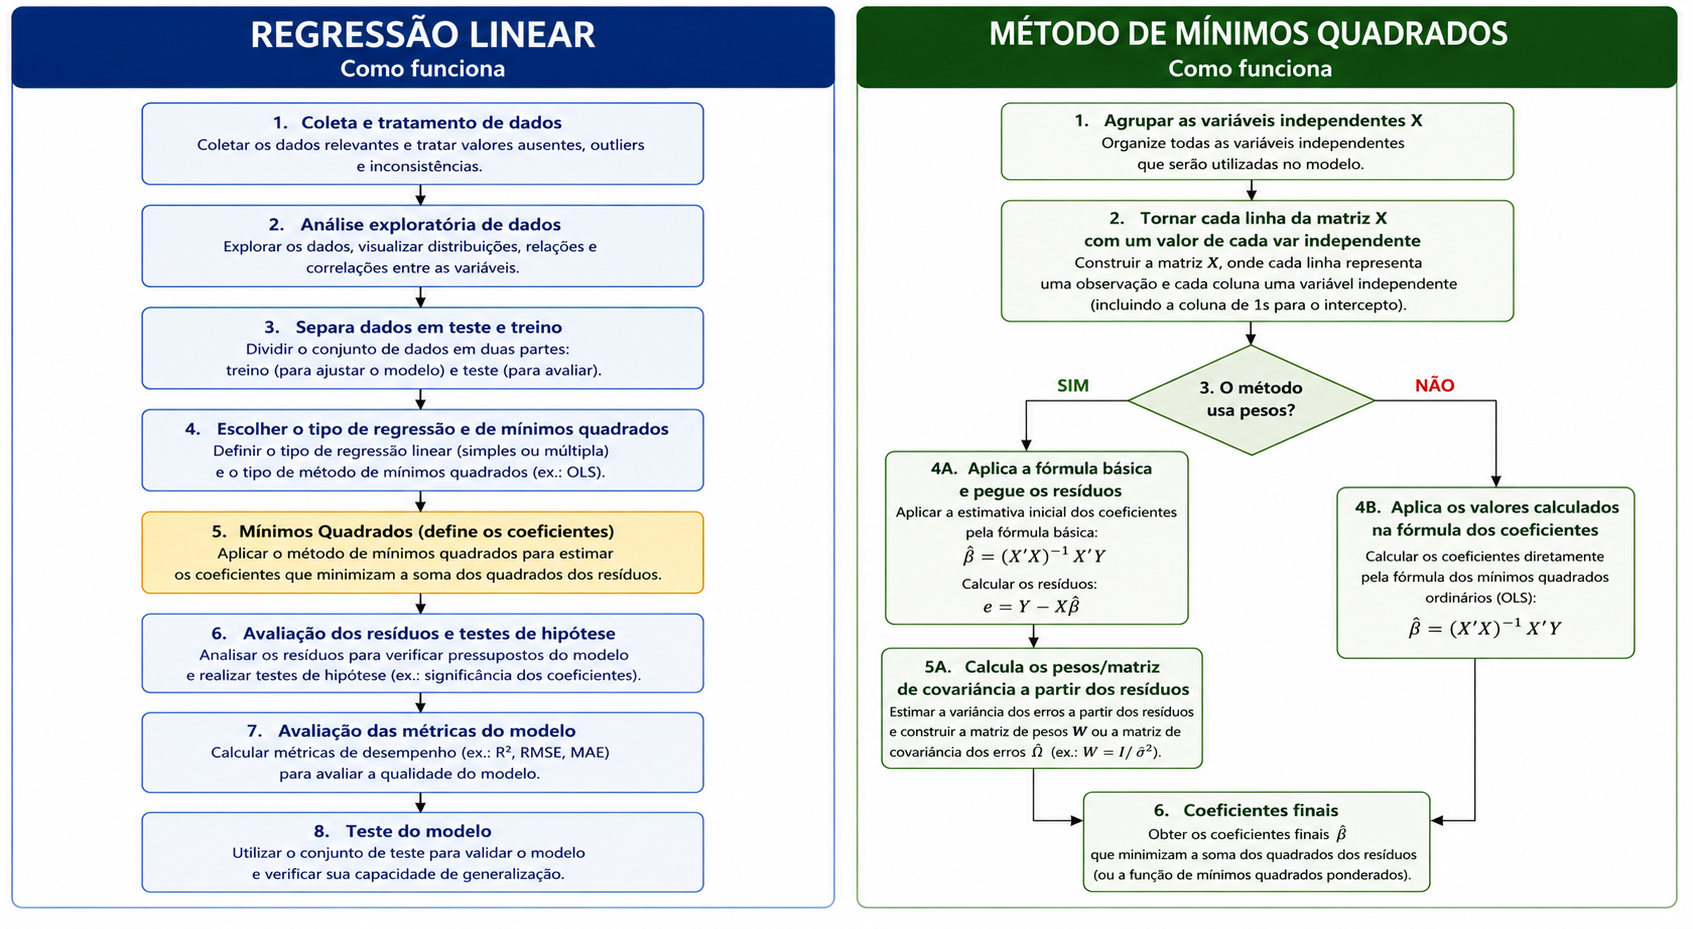
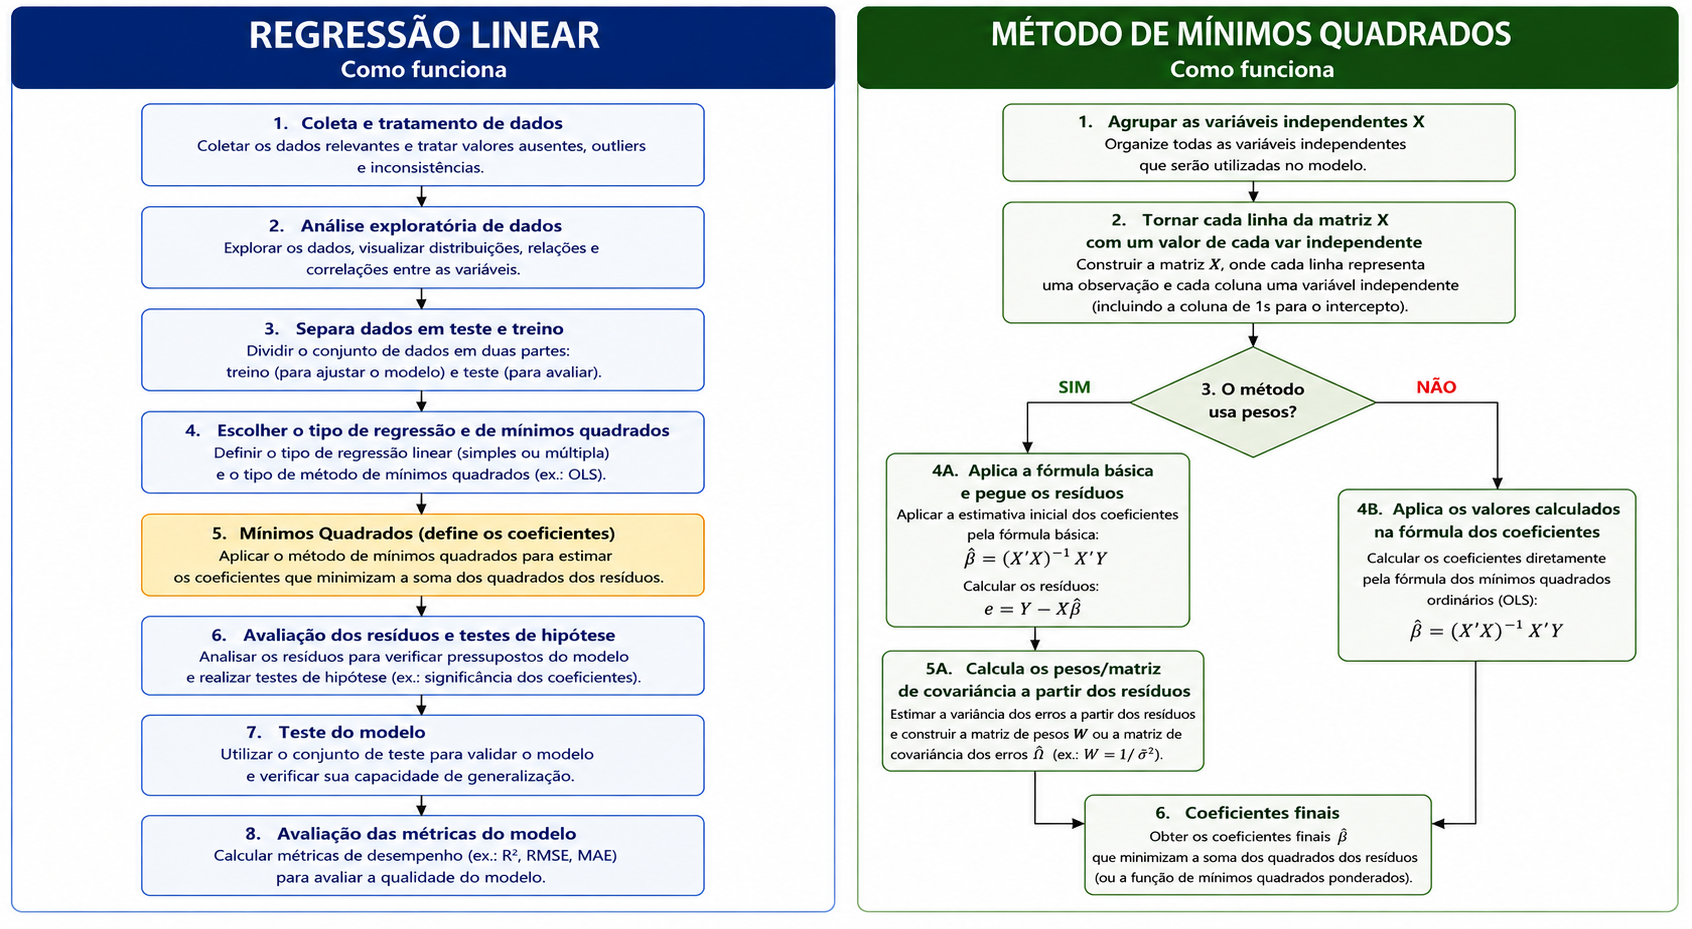
regressao linear

Changed region(s): [[0.0, 0.0, 1.0, 0.9989], [0.7991, 0.4058, 0.8913, 0.437]]

diff --git a/02-machine-learning/supervisionado/regressao/README.md b/02-machine-learning/supervisionado/regressao/README.md
@@ -1,0 +1,110 @@
+# REGRESSÃO
+
+O aprendizado supervisionado pode ser dividido em dois grupos: regressão e classificação. A regressão busca prever valores numéricos e contínuos enquanto a classificação busca definir a qual categoria um dado pertence (é gato ou cachorro, sim ou não, aprovado ou reprovado...). 
+
+A regressão serve perfeitamente para contextos matemáticos ou quando estamos modelar matematicamente algo. Se quisermos transformar algo em uma equação, é ele que usamos. Por isso ele só se enciaxa se puder transformar os dados e as respostas em algo numérico. 
+
+## Resposta contínua
+
+Como a resposta pode ser qualquer valor dos números reais, a regressão forma uma equação contínua. Se a resposta só pudesse ser valores inteiros (1, 2, 3) seria uma classificação, onde cada número representa uma categoria.
+
+## Tipos
+
+- Regressão linear: cria uma equação de primeiro grau (uma linha ou plano) que representa seus dados
+- Regressão polinomial: cria uma equação de qualquer grau que representa seus dados
+
+A grande verdade é que regressão polinomial não é muito usada, pois é muito complexa de modelar e aumenta e muito os cálculos necessários. O mais comum é usar transformação nos dados para linearizá-los e depois aplicar a regressão linear. Outros métodos como redes neurais também são mais recomendáveis para modelar nesses casos.
+
+Não existe regressões que tentam modelar outras relações (como raiz quadrada, seno...), para esses casos também é preferível outros métodos como redes neurais.
+
+### Transformação dos dados
+
+Uma transformação muda a escala dos dados, tornando dados exponenciais mais lineares (log) ou eliminar a dispersão, deixando-os mais unidos (z-score). Em todos eles a escala de medida muda, portanto se você aplica transformação nas vars de saída (Y) no treino, ao prever e nos testes precisa aplicar a operação inversa para trazes a resposta de volta a escala original e ser compreensível e comparável com os dados de teste.
+
+Você pode ver mais sobre transformação nos meus estudos sobre estatística no capítulo 10, [clicando aqui](https://github.com/rodrigorincon/statistics/tree/main/10-correlacao-e-transformacao).
+
+## Fórmulas
+
+1. **Regressão Linear Simples**
+
+$y = a*x + b$
+
+- Cria uma equação linear com apenas 1 var independente
+- Só tem 1 único X
+
+2. **Regressão Linear Múltipla**
+
+$y = a_1*x_1 + a_2*x_2 ... + a_n*x_n + b$
+
+- Cria uma equação linear com 2 ou mais vars independentes
+- Simples com vários X
+
+Porém usar essa fórmula nos dia-a-dia pode ser muito trabalhoso. O que de fato é feito para simplificar é reescrever essa mesma equação em formato de matriz, o que facilita tanto para o programador entender quanto agiliza o cálculo pela máquina. Mas a equação é a mesma e nenhuma relação é perdida. Só a forma de escrever que muda.
+ 
+3. **Regressão Polinomial**
+
+$y = a_1*x + a_2*x^2 + a_3*x^3 ... + a_n*x^n + b$
+
+- Cria uma equação exponencial
+- Tenta descobrir o coeficiente de cada expoente e quantos expoentes tem (se acaba no elevado a 3 ou no elevado a 10)
+- Não envolve raiz quadrada, elevado a números fracionados ou negativoss
+- Pode ter diversas variáveis independentes (X)
+- É preciso ter uma amostra com no mínimo N dados (o máximo de expoentes que consegue definir é o tamanho da amostra)
+- Fácil de causar overfitting quando tem alto grau (elevado a 3 ou mais)
+- Árvores e decisão e Redes Neurais são mais eficientes que a regressão polinomial. Se a relação é muito complexa que precisa de vários polinômios, essas soluções de IA são mais precisas
+
+> Conforme falado, a regressão polinomial não é recomendável, sendo prevferível usar redes neurais ou outros métodos para modelar esses casos mais complexos.
+
+## DIFERENÇA ENTRE CORRELAÇÃO E REGRESSÃO
+
+- Correlação analisa os dados passados
+- Regressão tenta prever o futuro (criando uma equação que melhor represente os dados)
+- Correlação é a base para regressão
+- Regressão é uma versão mais avançada e poderosa da correlação
+
+## O QUE REGRESSÃO MEDE A MAIS
+
+Além de **tudo que a correlação mede** (se são relacionadas, direção e força), a regressão também mede: 
+
+- Quanto uma var muda se aumentarmos/diminuirmos outra
+- Prever/estimar o valor final da variável para cada valor da outra
+- Quais vars formam o melhor modelo (quais descrevem melhor o comportamento de Y)
+
+### PONTOS DE ATENÇÃO
+
+- A regressão não indica relação causa x efeito (correlação não é causalidade)
+- A regressão não ajuda a encontrar variáveis ocultas 
+ - As vezes há outras vars influenciando além das usadas ou mesmo uma que define o comportamento das suas
+
+## NOMENCLATURA
+
+- Var Independente (ou explicativa)
+  - São o que causa mudança na var estudada
+  - Podem ser várias
+  - É o nosso X da equação
+- Var Dependente (ou resposta)
+  - É influenciada pelas demais variáveis
+  - Só temos 1
+  - É o nosso Y da equação
+
+## PREMISSAS
+
+Além dos dados de entrada e saída terem de ser números reais, para dizer que a regressão é confiável 4 condições tem de ser seguidas pelos resíduos:
+
+- Erros serem normais
+- Variância dos erros constante (homocedasticidade)
+- Erros independentes (para séries temporais)
+- Vars independentes não devem ser correlacionadas (sem multicolinariedade, para regressão múltipla)
+
+Como testes de hipótese, análise de dados e explicação de resíduos não fazem parte do escopo daqui (aqui foco nos algoritmos e fluxos de trabalho), a descrição completa de todos eles e como aplicá-los também será dado nos meus estudos sobre estatística no capítulo 11, [clicando aqui](https://github.com/rodrigorincon/statistics/blob/main/11-regressao-linear/02-como-fazer.md).
+
+### CHECKLIST DE TODOS OS TESTES A PASSAR
+
+Juntando os testes das premissas com o da própria regressão, esta é a lista de testes a serem executadas para regressões simples ou múltiplas.
+
+- Anova
+  - Teste T como post hoc
+- Jarque-Bera
+- Breusch-Pagan
+- Durbin-Watson (para séries temporais)
+- Matriz de correlação ou VIF (não são testes de hipóteses, mas tem de testar)

diff --git a/02-machine-learning/supervisionado/regressao/regressao-linear/README.md b/02-machine-learning/supervisionado/regressao/regressao-linear/README.md
@@ -1,0 +1,53 @@
+# REGRESSÃO LINEAR
+
+Regressão é o método de IA aonde encontramos a melhor equação linear que descreva nossos dados. Com isso ela traça uma reta (para 1 única variável) ou plano (para 2 ou mais variáveis) que passa por entre os dados. Essa equação definida será aquela com o menor erro médio (ou seja, a que mais se aproxima dos dados reais).
+
+Como os dados não vão tá todos perfeitamente enfileirados na vida real, a linha nunca conseguirá passar em cima de todos os dados. O objetivo não é passar em cima do máximo de dados (isso seria overfitting), mas sim que a soma dos erros seja a menor possível.
+
+## Estrutura
+
+A estrutura de todo modelo de machine learning é composto por **preparar (e transformar) os dados**, separar dados de **treino e teste**, **escolher os parâmetros** do modelo, escolher uma **função de otimização** e uma **função de perda**. Adicionalmente pode ser usar regularização caso prefira.
+
+A regressão linear é indissociável do método dos mínimos quadrados, porém é importante deixar claro o que exatamente é cada um. A regressão é o modelo completo, com todas as etapas listadas acima. Os mínimos quadrados é o modelo de otimização usado na regressão, podendo inclusive até ser trocado por outro (como gradiente descendente).
+
+- **Regressão Linear**: É a equação ou o objetivo final. Ela descreve como uma variável Y muda se outra variável X for alterada.
+- **Mínimos Quadrados**: É a forma de encontrar a reta da regressão. Ele define os coeficientes que formam a reta e compõem a equação da regressão.
+
+Como os `mínimos quadrados é a função de otimização` da regressão, ele é a parte principal do modelo, sendo seu coração.
+
+![](../../../images/fluxograma-regressao.png)
+
+## Função de Otimização (Mínimos Quadrados)
+
+É o método usado pela regressão para encontrar os coeficientes/parâmetros do modelo. Tem uma série de variações para diferentes casos. Como eles já foram explicados anteriormente não me estenderei aqui. Uma outra opção aos mínimos quadrados é o gradiente descendente.
+
+> O mínimos quadrados é responsável por toda a parte complicada do modelo.
+
+## Função de Perda
+
+A função de perda é usada internamente pela função de otimização. Ela diz o quanto a otimização tá longe de seu objetivo. A função de perda dos mínimos quadrados é o **Erro Quadrático Médio (MSE)**, também chamado de **média da soma do quadrado dos erros**.
+
+Como ele já está incluso na equação dos mínimos quadrados ele acaba não sendo tão visível por tá tudo embutido em uma única equação. Quando se faz a prova da fórmula dos mínimos quadrados você encontra a função de custo no processo e sua derivada está lá presente formando a equação. A derivada do erro quadrático é facilmente encontrada na prova via derivada. Consulte a pasta de mínimos quadrados na sessão "algoritmos-base".
+
+O erro quadrático médio é: $\frac{\sum (y_i - ŷ)^2}{N}$
+
+E sua derivada é: $\frac{2 \sum (y_i - ŷ)}{N}$
+
+Nós vemos ess somatória na fórmula final dos mínimos, porém o 2 e o N se cancelam com outros fatores que compõem o resto da equação.
+
+A função de perda do gradiente descendente é a máxima log-verossimilhança.
+
+## Métricas de Qualidade
+
+Além dos métodos tradicionais de medir o sucesso de um modelo de IA (AIC/BIC, R² e R² ajustado), para a regressão linear temos alguns a mais.
+
+- **MAE, RMSE, MAPE e MSE**: São métricas que medem o tamanho dos erros das nossas previsões. Calcule eles a partir dos **dados de TESTE**. Nunca use essas métricas nos dados de treino, pois não faz sentido.
+- **Desvio padrão dos erros**: Mede o quão longe nossos erros costumam estar da realidade. Como os erros seguem uma curva normal, sabemos que 66% dos erros estatão a 1 desvio padrão dos erros de distância.
+
+## Detectando multicolineariedade
+
+Além dos testes de hipótese, uma outra forma de encontrar autocorrelação e multicolineariedade nos dados é usando 2 técnicas: **Matriz de correlação** e o **VIF**.
+
+Eles não são métricas de qualidade, mas sim técnicas para serem usadas na avaliação do treino (ou seja, verificamos antes de fazer os testes). Eles não são usados nos dados de teste nem em seus retornos.
+
+Ele testa se as variáveis usadas no treino são correlacionadas e assim podemos decidir se removemos alguma delas ou usamos regularização para diminuir essa influência cruzada.

diff --git a/02-machine-learning/README.md b/02-machine-learning/README.md
@@ -24,7 +24,7 @@ Muito dos modelos de machine learning usam redes neurais, mas ela não é tudo. 
 - Validação/teste: avaliar desempenho em dados não vistos.
 - Deploy: integrar o modelo em aplicações e monitorar seu desempenho.
 
-Arquitetonicamente, modelos aprendem transformações que mapeiam entradas para saídas. A aprendizagem é feita por uma **função de perda** (ou função de custo), **otimização e regularização**.
+Arquitetonicamente, modelos aprendem transformações que mapeiam entradas para saídas. A aprendizagem é feita por uma **função de perda** (ou função de custo), **otimização** e **regularização**.
 
 ---
 
